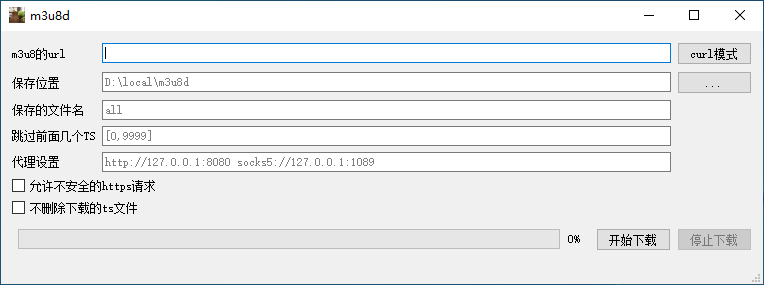
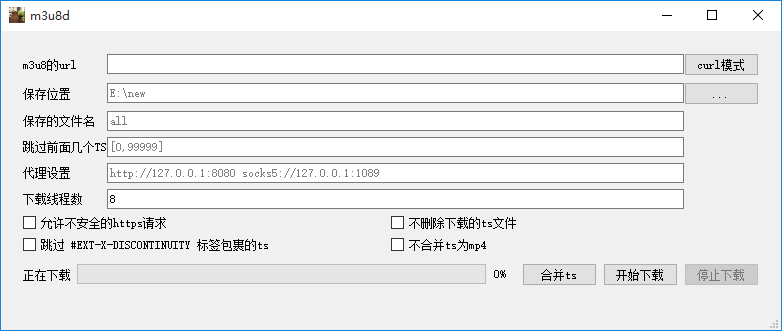
support h265

Changed region(s): [[0.0, 0.0, 1.0, 1.0], [0.0, 0.1684, 0.0903, 0.2246], [0.0, 0.2526, 0.0903, 0.3088]]

diff --git a/api.go b/api.go
@@ -2,7 +2,10 @@ package m3u8d
 
 import (
 	"context"
+	"crypto/sha256"
 	"crypto/tls"
+	"encoding/hex"
+	"encoding/json"
 	"io/ioutil"
 	"net/http"
 	"net/url"
@@ -113,7 +116,7 @@ func (this *DownloadEnv) setSaveFileTo(to string, isSkipped bool) {
 }
 
 func (this *DownloadEnv) runDownload(req StartDownload_Req) {
-	this.status.SetProgressBarTitle("[1/6]嗅探m3u8")
+	this.status.SetProgressBarTitle("[1/4]嗅探m3u8")
 	var m3u8Body []byte
 	var errMsg string
 	req.M3u8Url, m3u8Body, errMsg = this.sniffM3u8(req.M3u8Url)
@@ -127,22 +130,6 @@ func (this *DownloadEnv) runDownload(req StartDownload_Req) {
 		return
 	}
 
-	if req.SkipCacheCheck == false && req.SkipMergeTs == false {
-		var info *DbVideoInfo
-		info, err = cacheRead(req.SaveDir, videoId)
-		if err != nil {
-			this.setErrMsg("cacheRead: " + err.Error())
-			return
-		}
-		if info != nil {
-			this.status.SetProgressBarTitle("[2/6]检查是否已下载")
-			latestNameFullPath, found := info.SearchVideoInDir(req.SaveDir)
-			if found {
-				this.setSaveFileTo(latestNameFullPath, true)
-				return
-			}
-		}
-	}
 	if !strings.HasPrefix(req.M3u8Url, "http") || req.M3u8Url == "" {
 		this.setErrMsg("M3u8Url not valid " + strconv.Quote(req.M3u8Url))
 		return
@@ -172,7 +159,7 @@ func (this *DownloadEnv) runDownload(req StartDownload_Req) {
 		this.setErrMsg("getEncryptInfo: " + err.Error())
 		return
 	}
-	this.status.SetProgressBarTitle("[3/6]获取ts列表")
+	this.status.SetProgressBarTitle("[2/4]获取ts列表")
 	tsList, errMsg := getTsList(beginSeq, req.M3u8Url, string(m3u8Body), req.Skip_EXT_X_DISCONTINUITY)
 	if errMsg != "" {
 		this.setErrMsg("获取ts列表错误: " + errMsg)
@@ -184,7 +171,7 @@ func (this *DownloadEnv) runDownload(req StartDownload_Req) {
 	}
 	tsList = tsList[req.SkipTsCountFromHead:]
 	// 下载ts
-	this.status.SetProgressBarTitle("[4/6]下载ts")
+	this.status.SetProgressBarTitle("[3/4]下载ts")
 	this.status.SpeedResetBytes()
 	err = this.downloader(tsList, downloadDir, encInfo, req.ThreadCount)
 	this.status.SpeedResetBytes()
@@ -203,7 +190,7 @@ func (this *DownloadEnv) runDownload(req StartDownload_Req) {
 	var tmpOutputName string
 	tmpOutputName = filepath.Join(downloadDir, "all.merge.mp4")
 
-	this.status.SetProgressBarTitle("[5/6]合并ts为mp4")
+	this.status.SetProgressBarTitle("[4/4]合并ts为mp4")
 	err = MergeTsFileListToSingleMp4(MergeTsFileListToSingleMp4_Req{
 		TsFileList: tsFileList,
 		OutputMp4:  tmpOutputName,
@@ -214,15 +201,6 @@ func (this *DownloadEnv) runDownload(req StartDownload_Req) {
 	if err != nil {
 		this.setErrMsg("合并错误: " + err.Error())
 		return
-	}
-	var contentHash string
-	if req.SkipCacheCheck == false {
-		this.status.SetProgressBarTitle("[6/6]计算文件hash")
-		contentHash = getFileSha256(tmpOutputName)
-		if contentHash == "" {
-			this.setErrMsg("无法计算摘要信息: " + tmpOutputName)
-			return
-		}
 	}
 	var name string
 	for idx := 0; ; idx++ {
@@ -248,13 +226,6 @@ func (this *DownloadEnv) runDownload(req StartDownload_Req) {
 	if err != nil {
 		this.setErrMsg("重命名失败: " + err.Error())
 		return
-	}
-	if req.SkipCacheCheck == false {
-		err = cacheWrite(req.SaveDir, videoId, req, name, contentHash)
-		if err != nil {
-			this.setErrMsg("cacheWrite: " + err.Error())
-			return
-		}
 	}
 	if req.SkipRemoveTs == false {
 		err = os.RemoveAll(downloadDir)
@@ -321,4 +292,13 @@ func (this *DownloadEnv) prepareReqAndHeader(req *StartDownload_Req) (errMsg str
 		this.header[key] = valueList
 	}
 	return ""
+}
+
+func (this *StartDownload_Req) getVideoId() (id string, err error) {
+	b, err := json.Marshal([]string{this.M3u8Url, strconv.Itoa(this.SkipTsCountFromHead), strconv.FormatBool(this.Skip_EXT_X_DISCONTINUITY)})
+	if err != nil {
+		return "", err
+	}
+	tmp1 := sha256.Sum256(b)
+	return hex.EncodeToString(tmp1[:]), nil
 }

diff --git a/m3u8d-qt/mainwindow.cpp b/m3u8d-qt/mainwindow.cpp
@@ -82,7 +82,6 @@ void MainWindow::on_pushButton_RunDownload_clicked()
     req.HeaderMap = m_HeaderMap;
     req.SkipRemoveTs = ui->checkBox_SkipRemoveTs->isChecked();
     req.ThreadCount = ui->lineEdit_ThreadCount->text().toInt();
-    req.SkipCacheCheck = ui->checkBox_SkipCacheCheck->isChecked();
     req.SkipMergeTs = ui->checkBox_SkipMergeTs->isChecked();
     req.Skip_EXT_X_DISCONTINUITY = ui->checkBox_Skip_EXT_X_DISCONTINUITY->isChecked();
 
@@ -217,7 +216,6 @@ void MainWindow::updateDownloadUi(bool runing)
     ui->pushButton_curlMode->setEnabled(!runing);
     ui->checkBox_SkipRemoveTs->setEnabled(!runing);
     ui->lineEdit_ThreadCount->setEnabled(!runing);
-    ui->checkBox_SkipCacheCheck->setEnabled(!runing);
     ui->checkBox_SkipMergeTs->setEnabled(!runing);
     ui->checkBox_Skip_EXT_X_DISCONTINUITY->setEnabled(!runing);
 
@@ -251,7 +249,6 @@ void MainWindow::saveUiConfig()
     obj["ThreadCount"] = ui->lineEdit_ThreadCount->text().toInt();
     obj["Insecure"] = ui->checkBox_Insecure->isChecked();
     obj["SkipRemoveTs"] = ui->checkBox_SkipRemoveTs->isChecked();
-    obj["SkipCacheCheck"] = ui->checkBox_SkipCacheCheck->isChecked();
     obj["SkipMergeTs"] = ui->checkBox_SkipMergeTs->isChecked();
     obj["Skip_EXT_X_DISCONTINUITY"] = ui->checkBox_Skip_EXT_X_DISCONTINUITY->isChecked();
 
@@ -309,8 +306,6 @@ void MainWindow::loadUiConfig()
     ui->checkBox_Insecure->setChecked(insecure);
     bool skipRemoveTs = obj["SkipRemoveTs"].toBool();
     ui->checkBox_SkipRemoveTs->setChecked(skipRemoveTs);
-    bool skipCacheCheck = obj["SkipCacheCheck"].toBool();
-    ui->checkBox_SkipCacheCheck->setChecked(skipCacheCheck);
     bool skipMergeTs = obj["SkipMergeTs"].toBool();
     ui->checkBox_SkipMergeTs->setChecked(skipMergeTs);
     bool skip_EXT_X_DISCONTINUITY = obj["Skip_EXT_X_DISCONTINUITY"].toBool();

diff --git a/cmd/main.go b/cmd/main.go
@@ -125,7 +125,6 @@ func init() {
 	downloadCmd.Flags().StringVarP(&gRunReq.SetProxy, "SetProxy", "", "", "代理设置, http://127.0.0.1:8080 socks5://127.0.0.1:1089")
 	downloadCmd.Flags().BoolVarP(&gRunReq.SkipRemoveTs, "SkipRemoveTs", "", false, "不删除下载的ts文件")
 	downloadCmd.Flags().IntVarP(&gRunReq.ThreadCount, "ThreadCount", "", 8, "下载线程数")
-	downloadCmd.Flags().BoolVarP(&gRunReq.SkipCacheCheck, "SkipCacheCheck", "", false, "是否使用缓存检测")
 	downloadCmd.Flags().BoolVarP(&gRunReq.SkipMergeTs, "SkipMergeTs", "", false, "不合并ts为mp4")
 	downloadCmd.Flags().BoolVarP(&gRunReq.Skip_EXT_X_DISCONTINUITY, "Skip_EXT_X_DISCONTINUITY", "", false, "跳过 #EXT-X-DISCONTINUITY 标签包裹的ts")
 	rootCmd.AddCommand(downloadCmd)

diff --git a/merge.go b/merge.go
@@ -60,7 +60,7 @@ func MergeTsFileListToSingleMp4(req MergeTsFileListToSingleMp4_Req) (err error) 
 					return
 				}
 			})
-		} else if cid == mpeg2.TS_STREAM_H264 {
+		} else if cid == mpeg2.TS_STREAM_H264 || cid == mpeg2.TS_STREAM_H265 {
 			err = muxer.Write(vtid, frame, pts, dts)
 			if err != nil {
 				OnFrameErr = err

diff --git a/README.md b/README.md
@@ -6,19 +6,17 @@
 * ![](m3u8d-qt/screenshot.png)
 * [全部版本下载](https://github.com/orestonce/m3u8d/releases ), 包括windows图形界面/linux命令行/mac命令行/mac图形化界面   
 * 命令行使用教程
-  * 普通下载命令 `./m3u8d download -u https://example.com/index.m3u8`
+  * 普通下载命令: `./m3u8d download -u https://example.com/index.m3u8`
   * curl模式： `./m3u8d curl 'https://example.com/index.m3u8' -H 'cookie: CONSENT=YES'`
+  * 合并某个目录下的ts文件为 mp4: `./m3u8d merge --InputTsDir /root/save --OutputMp4Name save.mp4` 
 ## 实现说明
 * download.go 大部分抄自 [llychao/m3u8-downloader](https://github.com/llychao/m3u8-downloader)
 * 使用[gomedia](https://github.com/yapingcat/gomedia) 代替ffmpeg进行格式转换
 * 支持跳过前面几个ts文件(一般是广告, 嘿嘿)
+* 支持跳过 #EXT-X-DISCONTINUITY 标签包裹的ts。有的网站会在视频中增加广告，广告内容在 #EXT-X-DISCONTINUITY 直接包裹
 * 程序会在下载保存目录创建:
     * downloading/ 目录, 用于存放正在下载的分段ts视频, 按照m3u8的url进行划分
-    * m3u8d_cache.cdb 文件, 用于存放以前的下载历史, 用于防止重复下载文件
-* 重复下载文件的判定和跳过    
-    * 将M3u8Url+SkipTsCountFromHead进行hash, 得到文件下载id
-    * 将文件下载id/文件大小/文件内容hash 储存在 m3u8_cache.cdb里面, 下载前搜索下载目录
-    如果发现某个文件大小/文件内容hash和以前的记录相等,则认为这个文件是以前下载的文件, 跳过此次下载.
+    * m3u8d_config.json 文件, 用于存放Qt ui的的界面上的配置信息, 只有Windows/Macos的Qt版本会创建此文件
 * **curl模式** 可以赋予使用者任意设置下载请求的Header信息的能力，方便解决只有一个m3u8的链接时无法下载视频的尴尬局面
   * 例子1, 你需要下载的视频是要登陆后观看的，Cookie信息里存放了登陆状态
   * 例子2, 网站开发者验证了Referer信息、Authority信息、Origin信息、User-Agent信息、各种特定的Header信息
